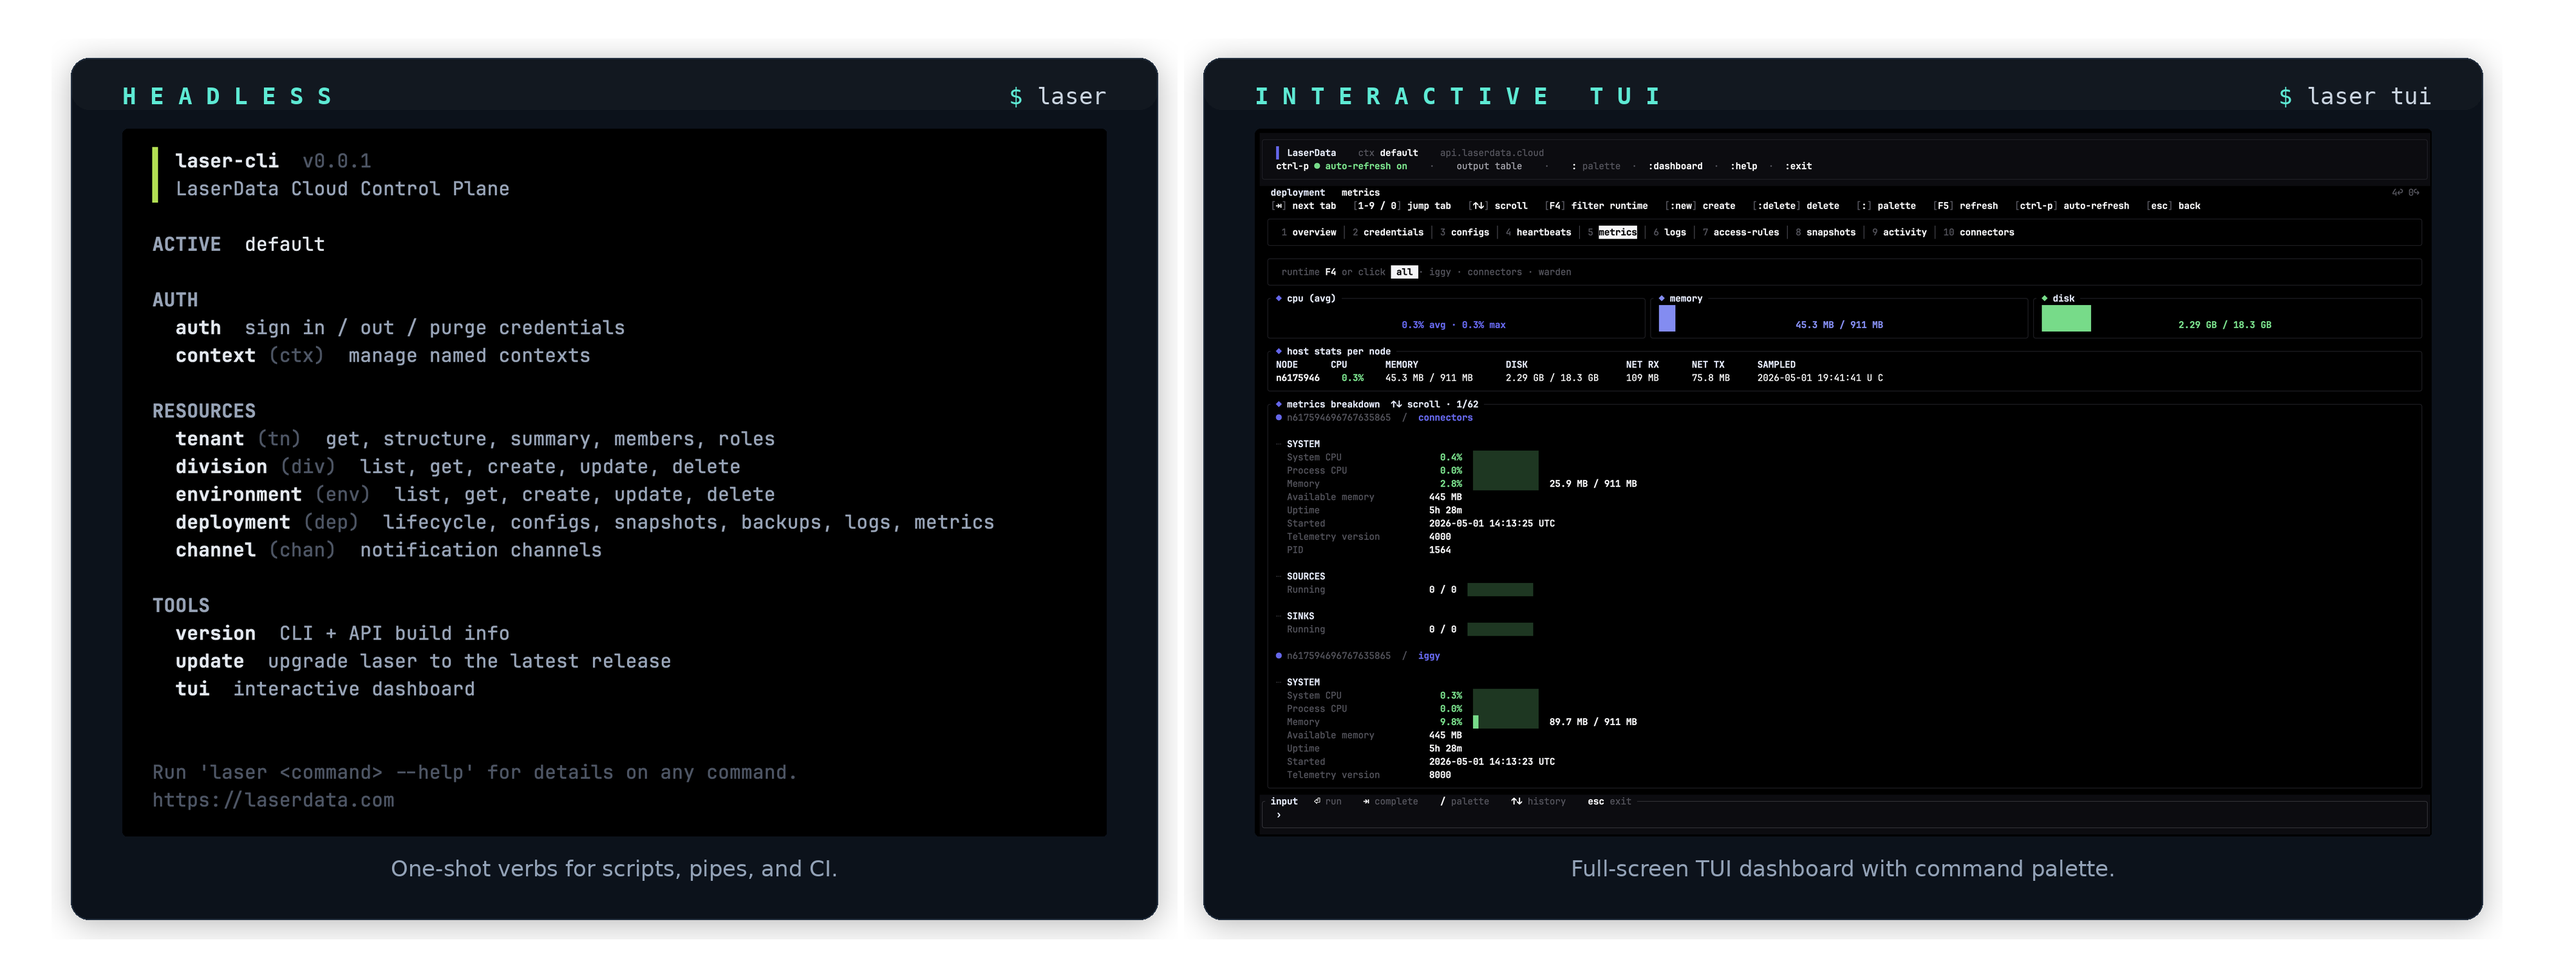
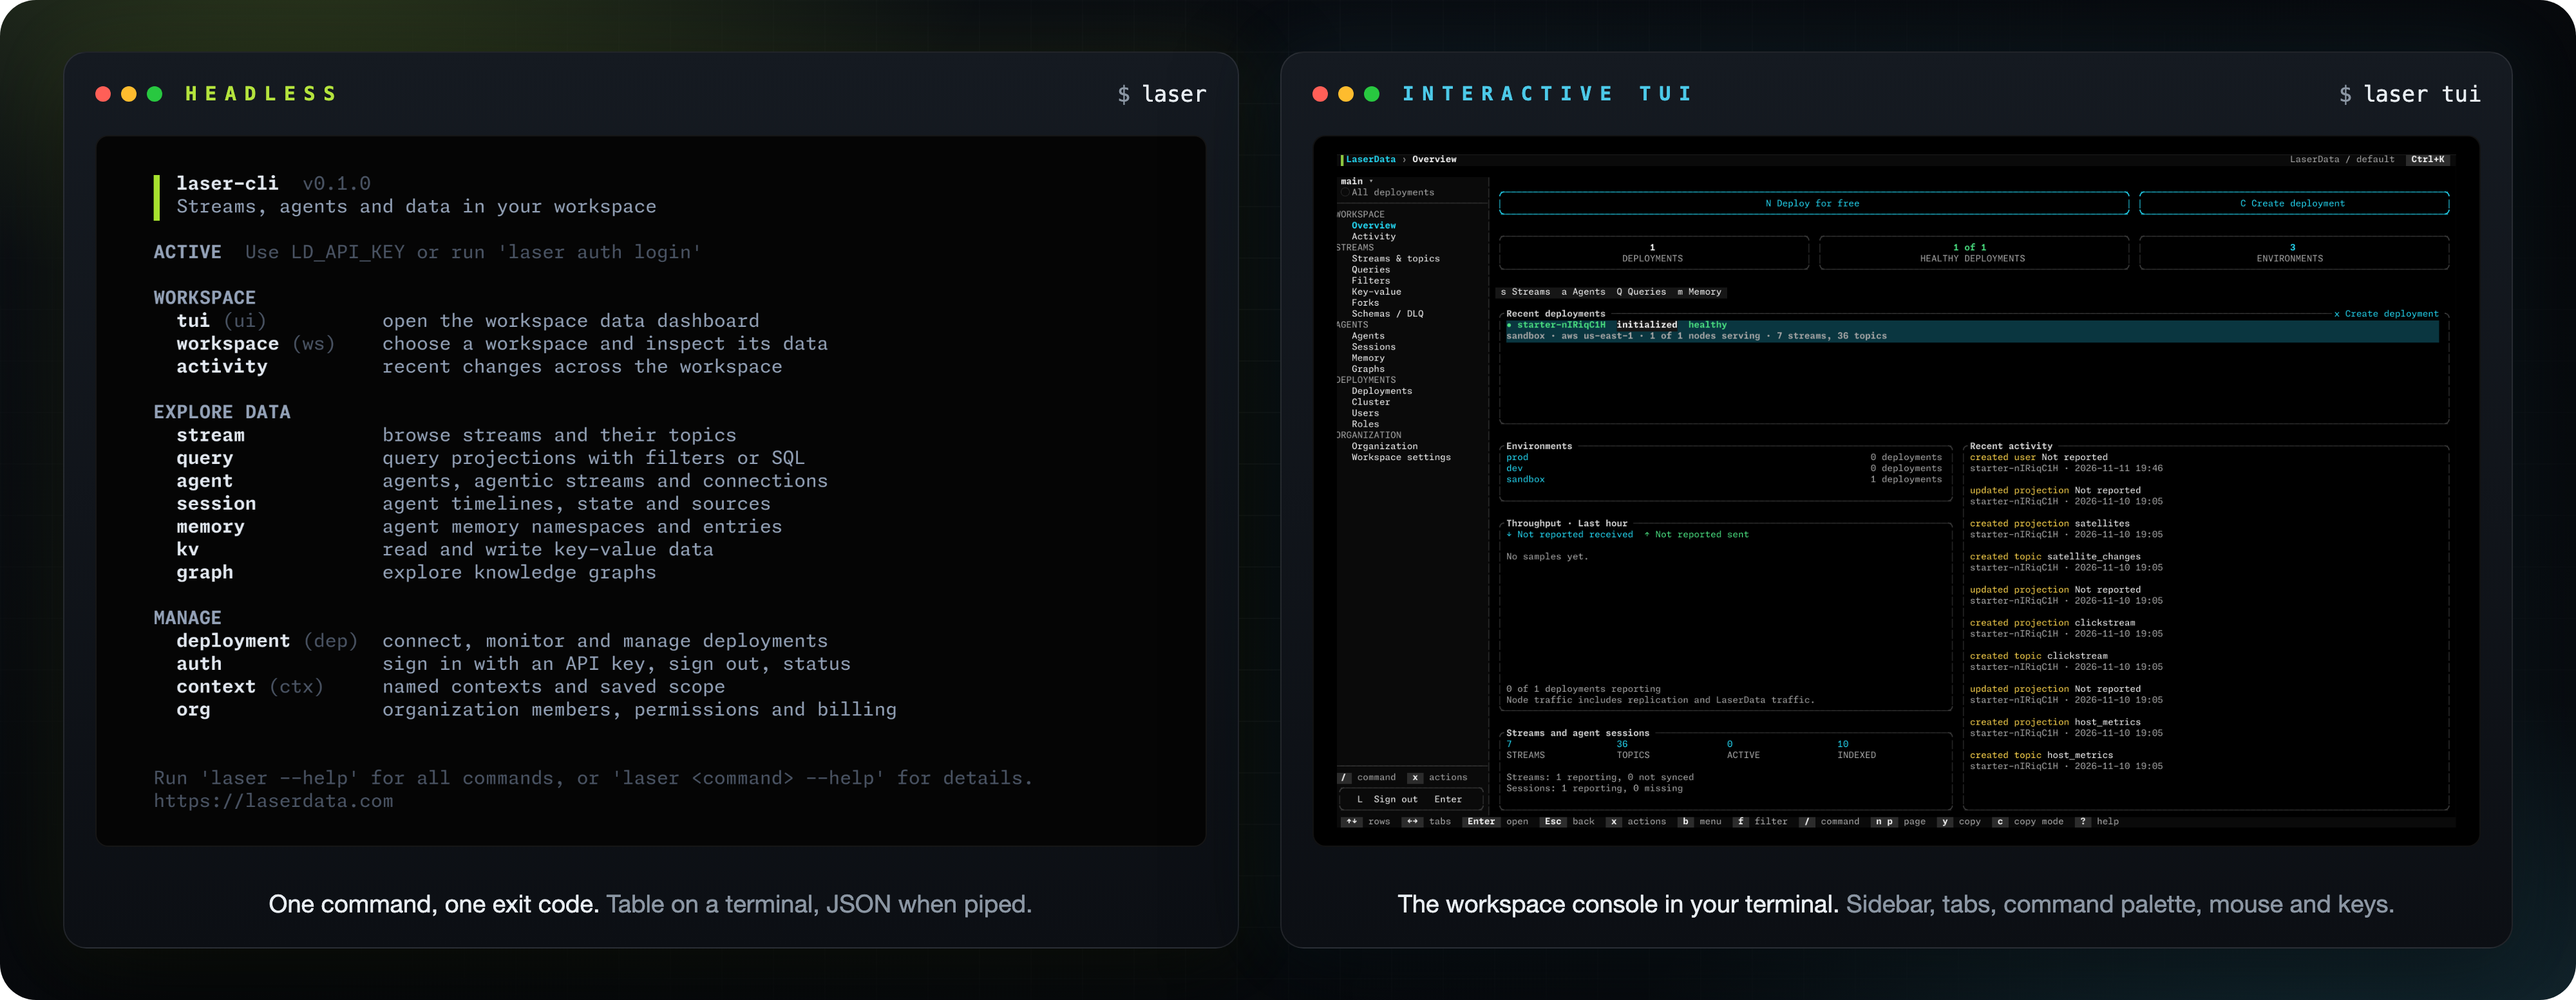
update readme

diff --git a/README.md b/README.md
@@ -1,8 +1,8 @@
 # Laser CLI
 
-Public release artefacts for `laser`, the command-line and TUI for [LaserData](https://laserdata.com) Cloud. Linux + macOS, single static binary, no runtime dependencies.
+Public release artefacts for `laser`, the command-line interface and terminal dashboard for [LaserData](https://laserdata.com) Cloud. It follows the LaserData console: an organization, its workspaces, their deployments, and the data inside each deployment, from streams and topics to agents, agent sessions, memory, queries, consumer filters, key-value namespaces and forks. One static binary for macOS arm64 and Linux x86_64 or arm64.
 
-![laser CLI: headless one-shot verbs and full-screen TUI dashboard](assets/laser_cli.png)
+![laser CLI: one-shot commands and the workspace dashboard in the terminal](assets/laser_cli.png)
 
 ## Install
 
@@ -32,17 +32,17 @@ The installer detects OS + arch, downloads the matching archive from the latest 
 
 ```sh
 # Pin a version.
-curl -fsSL https://cli.laserdata.cloud/install.sh | sh -s -- --version v0.0.1
+curl -fsSL https://cli.laserdata.cloud/install.sh | sh -s -- --version v0.1.0
 
 # Bundle Claude Code skills in the same step.
 curl -fsSL https://cli.laserdata.cloud/install.sh | sh -s -- --with-cc-skills
 
 # Pinned version + custom dir + skills.
 curl -fsSL https://cli.laserdata.cloud/install.sh \
-  | sh -s -- --version v0.2.1 --to /usr/local/bin --with-cc-skills
+  | sh -s -- --version v0.1.0 --to /usr/local/bin --with-cc-skills
 ```
 
-Idempotent: re-running upgrades binary (overwrite) and skills (`cp -f`) in place. Safe to script in CI / dotfiles.
+Re-running the installer replaces the binary and each installed skill in place.
 
 In-place upgrades from an existing install:
 
@@ -50,31 +50,69 @@ In-place upgrades from an existing install:
 laser update
 ```
 
+`laser update` downloads the latest release and replaces the binary. `laser version` prints the installed version.
+
 ## Two modes, one binary
+
+Both modes share the same configuration and credentials.
 
 ### Headless (default)
 
-Every verb runs as a one-shot, exits zero on success, non-zero on failure. Composes with `&&`, `||`, `xargs`, GNU parallel, cron, CI runners.
+`laser <command>` runs one command and exits. Output is a table on a terminal and JSON when piped. Failures exit non-zero with the error on stderr, so commands compose with `&&`, `||`, `xargs`, cron and CI runners.
 
 ```sh
-laser auth login                              # interactive on a TTY, env var on CI
-laser tenant get -o json
-laser deployment list --silent && echo ok     # quiet success path
+laser auth login                  # prompts for the API key, binds its organization
+laser workspace use main          # remember the workspace
+laser deployment list             # every deployment of the workspace, with live health
+laser deployment use sensors      # scope data commands to one deployment
+laser stream list                 # streams of the scoped deployment
+laser session list --status active
+laser deployment list --silent && echo ok
 ```
 
-`--silent` suppresses success output without affecting stderr or exit codes. `-o json | yaml | name` for machine-readable output. `--debug` for stderr trace.
+| Flag | Effect |
+| --- | --- |
+| `-o table`, `json`, `yaml`, `name` | Output format. Table on a terminal, JSON when piped |
+| `--silent` | No output on success. Failures still reach stderr |
+| `--page`, `--results` | Paging of list commands. 25 per page by default, at most 100 |
+| `--yes` | Skip the confirmation of destructive commands |
+| `--context <name>` | Use a named context for one invocation |
+| `--debug` | Debug logging to stderr |
+
+| Exit code | Meaning |
+| --- | --- |
+| 0 | Success |
+| 1 | Invalid input, configuration or scope |
+| 2 | The API refused the request, or the command line itself is invalid |
+| 3 | Network or file error |
+| 4 | A remote operation failed, was refused, or did not finish in time |
+| 70 | Internal error, such as a failed `laser update` |
+| 130 | Interrupted |
+
+The command groups follow the console's navigation:
+
+| Console | Commands |
+| --- | --- |
+| Organization | `org` with `member`, `invitation`, `role`, `key`, `cloud-account`, `billing`, `notification`, `audit`, `settings` |
+| Workspace | `workspace`, `env`, `activity`, `find <text>` |
+| Deployments | `deployment` with `create`, `monitor`, `connect`, `connector`, `backend`, `settings`, `cluster`, `client`, `user`, `role` |
+| Agents | `agent`, `session`, `conversation`, `memory`, `graph` |
+| Streams | `stream`, `topic`, `group`, `message`, `query`, `projection`, `filter`, `kv`, `fork`, `schema`, `dlq` |
+
+`laser <group> --help` lists every command and flag. The full reference is at <https://docs.laserdata.com/cli/commands>.
 
 ### TUI
 
 ```sh
-laser tui
+laser tui            # or: laser ui
+laser tui -w main -d sensors
 ```
 
-Full-screen TUI dashboard with mouse + keyboard, command palette, persistent history. Drives the same backend as the headless verbs. Pass `--interactive` to any verb to run it inside the TUI with rendered output.
+The LaserData console in the terminal: the workspace sidebar, pages with tabs, a command palette (`Ctrl+K`), mouse and keyboard control. Every row opens its data, from a stream to its topics, partitions and messages, from an agent to its sessions, timeline, memory and graph. Every view runs a command you could type. Without a saved key it opens on a welcome screen and asks for one. Press `?` for the keyboard shortcuts. The full guide is at <https://docs.laserdata.com/cli/tui>.
 
 ## Claude Code skills
 
-If you drive `laser` from inside [Claude Code](https://docs.anthropic.com/claude/docs/claude-code), install the official skill pack.
+If you drive `laser` from inside [Claude Code](https://code.claude.com/docs/en/overview), install the official skill pack.
 
 One-shot with the binary:
 
@@ -95,30 +133,35 @@ Or skills only:
 curl -fsSL https://cli.laserdata.cloud/claude.sh | sh
 ```
 
-Adds slash commands like `/laser-deploy`, `/laser-troubleshoot`, `/laser-snapshot`, `/laser-credentials`. Source: <https://github.com/laserdata/laser-cli-claude>.
+Adds slash commands like `/laser-onboard`, `/laser-deploy`, `/laser-query`, `/laser-troubleshoot`. Source: <https://github.com/laserdata/laser-cli-claude>. Every skill is listed at <https://docs.laserdata.com/cli/claude-skills>.
 
 ## Authentication
 
 ```sh
-laser auth login --tenant-id <numeric-id>
+laser auth login
 ```
 
-The API key (generated at <https://laserdata.cloud>) lands in the OS keyring (Keychain on macOS, Secret Service on Linux). The CLI validates the key against `/tenants/<id>/api_keys/context` on login; on success the resolved role is printed back. The tenant id is required on first login: pass `--tenant-id`, set `LD_TENANT_ID`, or run from a context that already has one saved.
+The CLI signs in with an API key, generated at <https://laserdata.cloud>. A key belongs to one organization, and `auth login` binds it: the organization is discovered from the key, so no organization id is needed. A key scoped to one workspace selects that workspace. The key is stored in the OS keyring (Keychain on macOS, Secret Service on Linux).
 
-For headless / agent / CI use:
+For scripts and agents no saved context is needed. Set the key and the scope in the environment, pass `-o json`, and check the exit code:
 
 ```sh
 export LD_API_KEY=...
-export LD_TENANT_ID=...
+export LD_WORKSPACE=main
+export LD_DEPLOYMENT=sensors
 ```
+
+`--workspace`/`-w` and `--deployment`/`-d` set the scope for one command and accept an id or a name.
 
 ## Local state
 
-XDG-aware, platform-correct paths:
+| Path | Content |
+| --- | --- |
+| `$XDG_CONFIG_HOME/laser/config.toml` | Named contexts with their organization, workspace and deployment scope, mode 0600. API keys live in the OS keyring, only their names are stored here |
+| `$XDG_STATE_HOME/laser/active` | The name of the active context |
+| `$XDG_DATA_HOME/laser/logs/laser-YYYY-MM-DD.log` | Daily debug log |
 
-- `$XDG_CONFIG_HOME/laser/contexts.toml` - named contexts (mode 0600, atomic writes; api keys live in the OS keyring, not on disk).
-- `$XDG_DATA_HOME/laser/history` - TUI command history (capped, secrets redacted before write).
-- `$XDG_DATA_HOME/laser/logs/laser-YYYY-MM-DD.log` - rolling daily debug log; `LD_LOG_FILE=trace` for verbose.
+macOS uses the platform equivalents. `LD_LOG_FILE` sets the file log level and `LD_LOG` the stderr level.
 
 ## Releases
 
@@ -133,8 +176,8 @@ Report a bug or request a feature: <https://github.com/laserdata/laser-cli-relea
 
 ## Documentation
 
-<https://docs.laserdata.cloud>
+<https://docs.laserdata.com/cli>
 
 ## License
 
-Source code is private; the binary distributed here may be used per the LaserData terms of service.
+Source code is private. The binary distributed here may be used per the LaserData terms of service.
